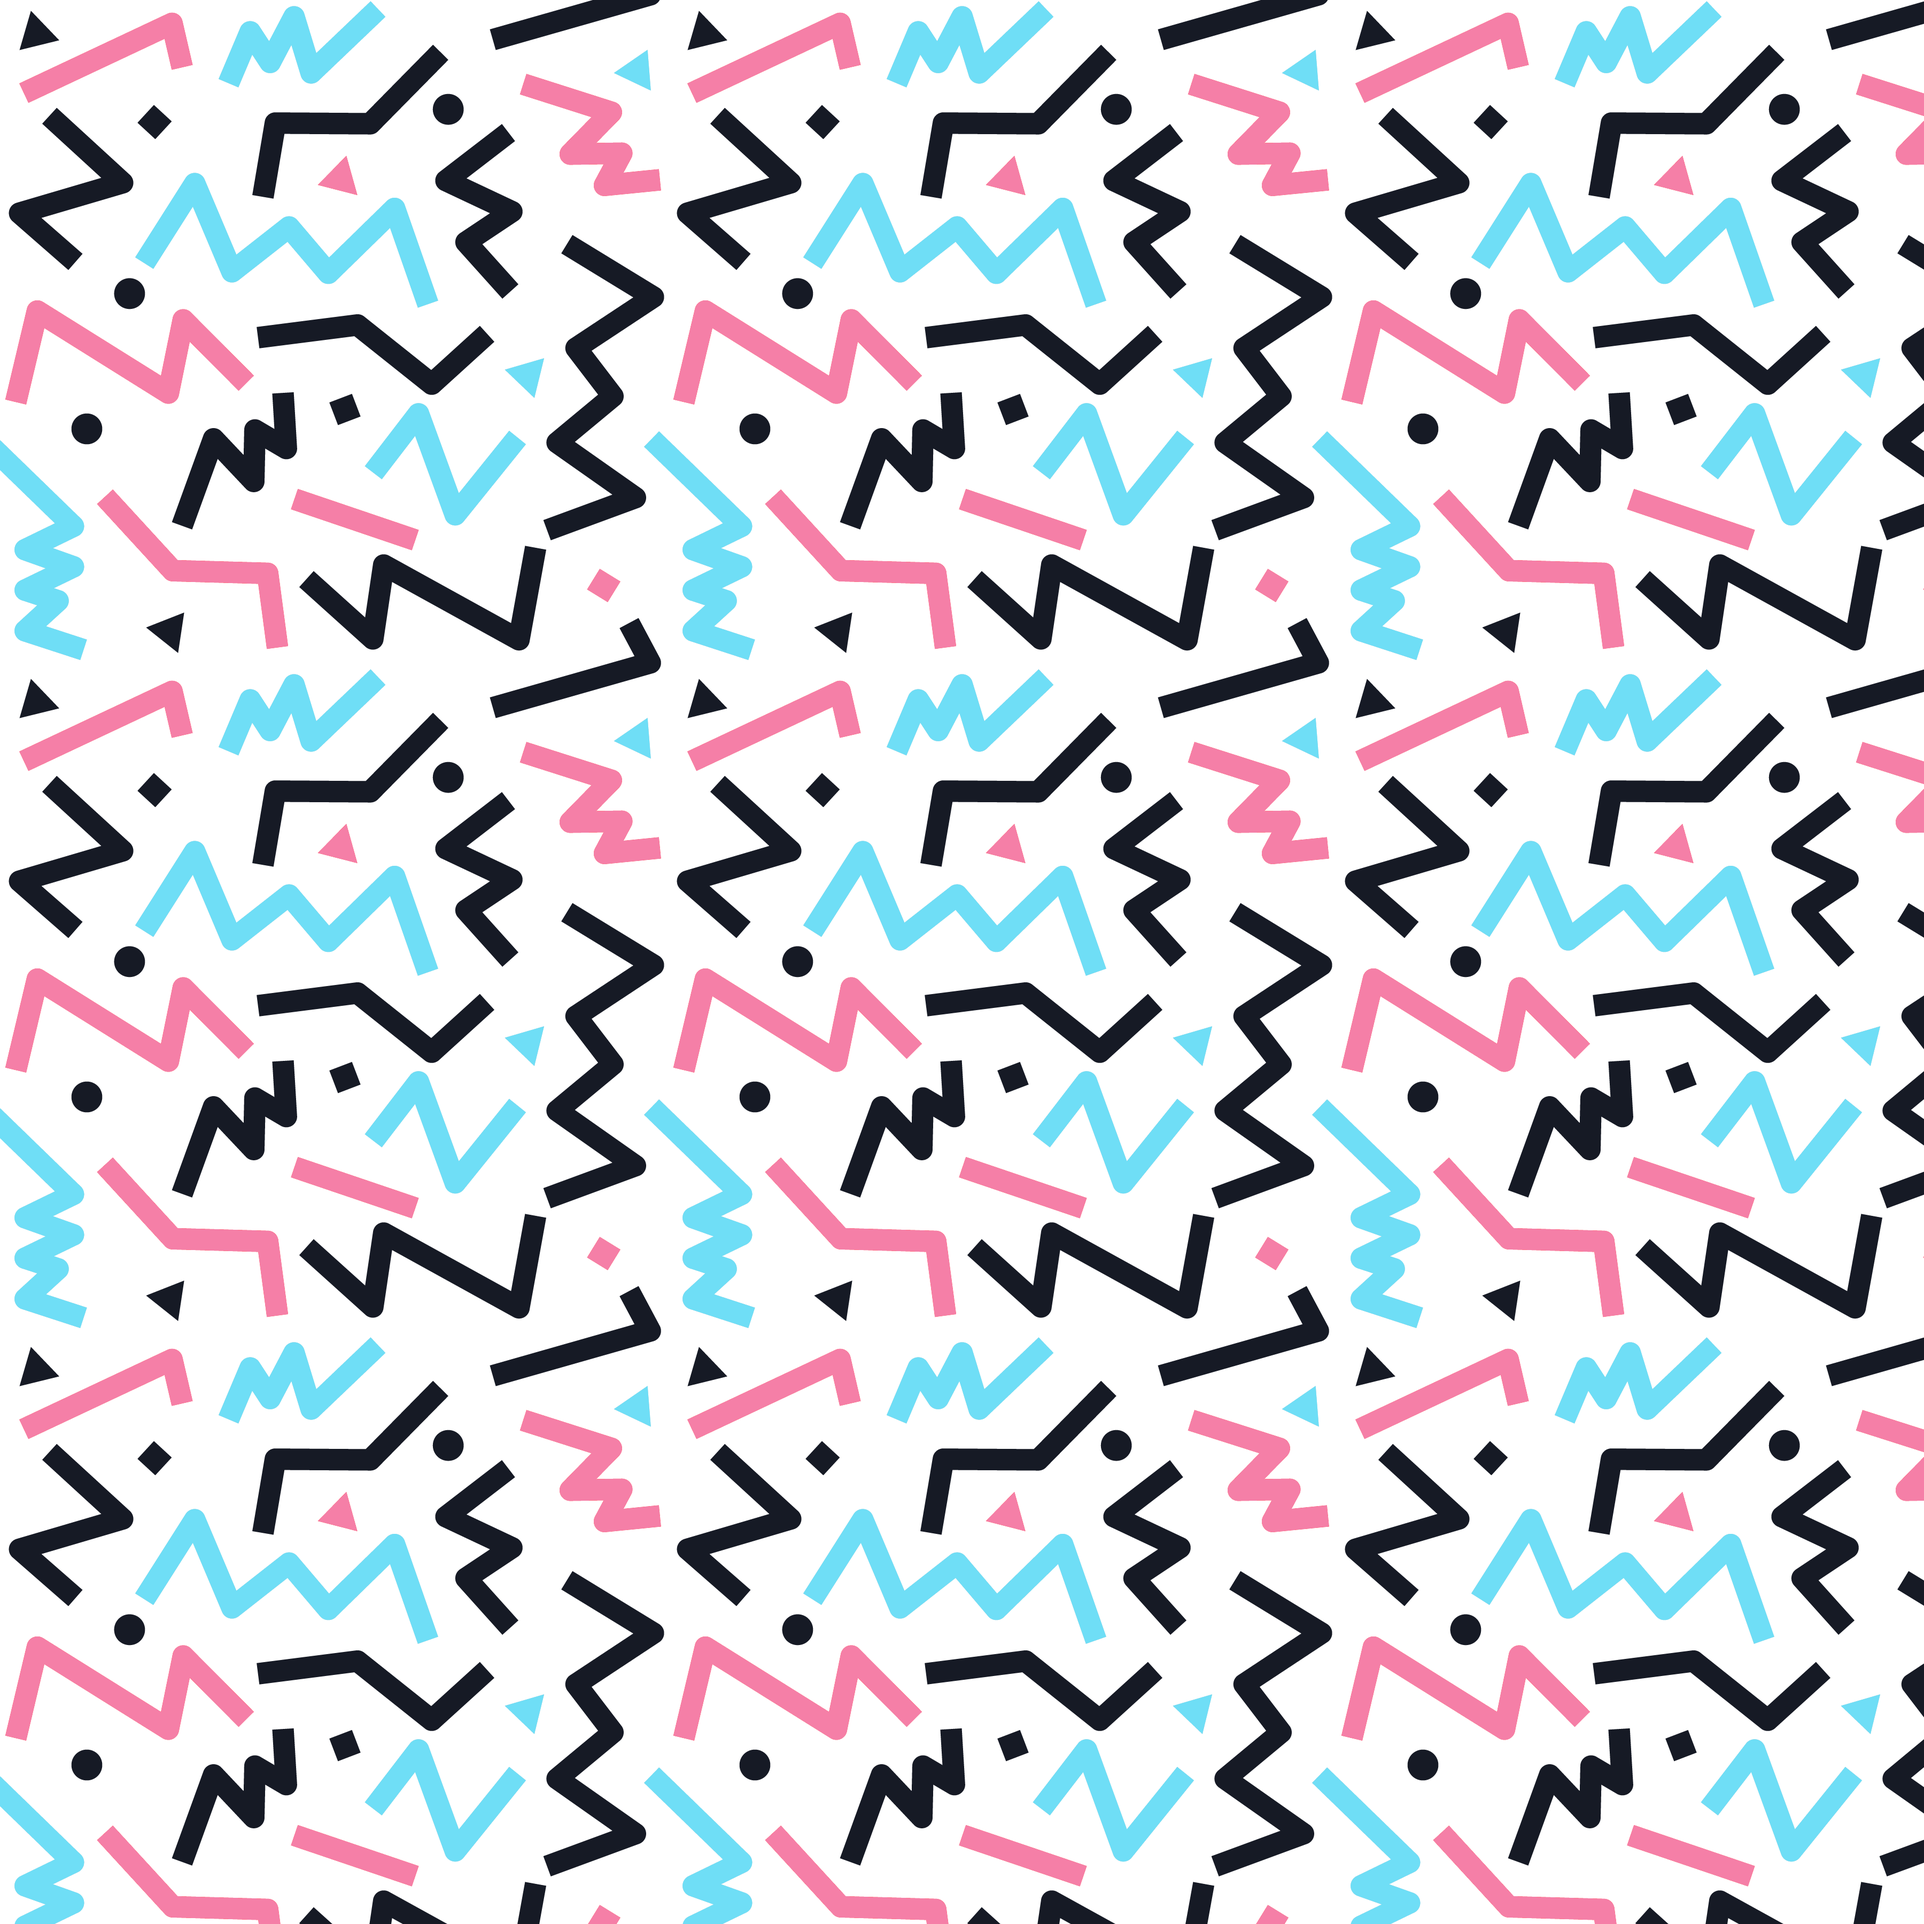
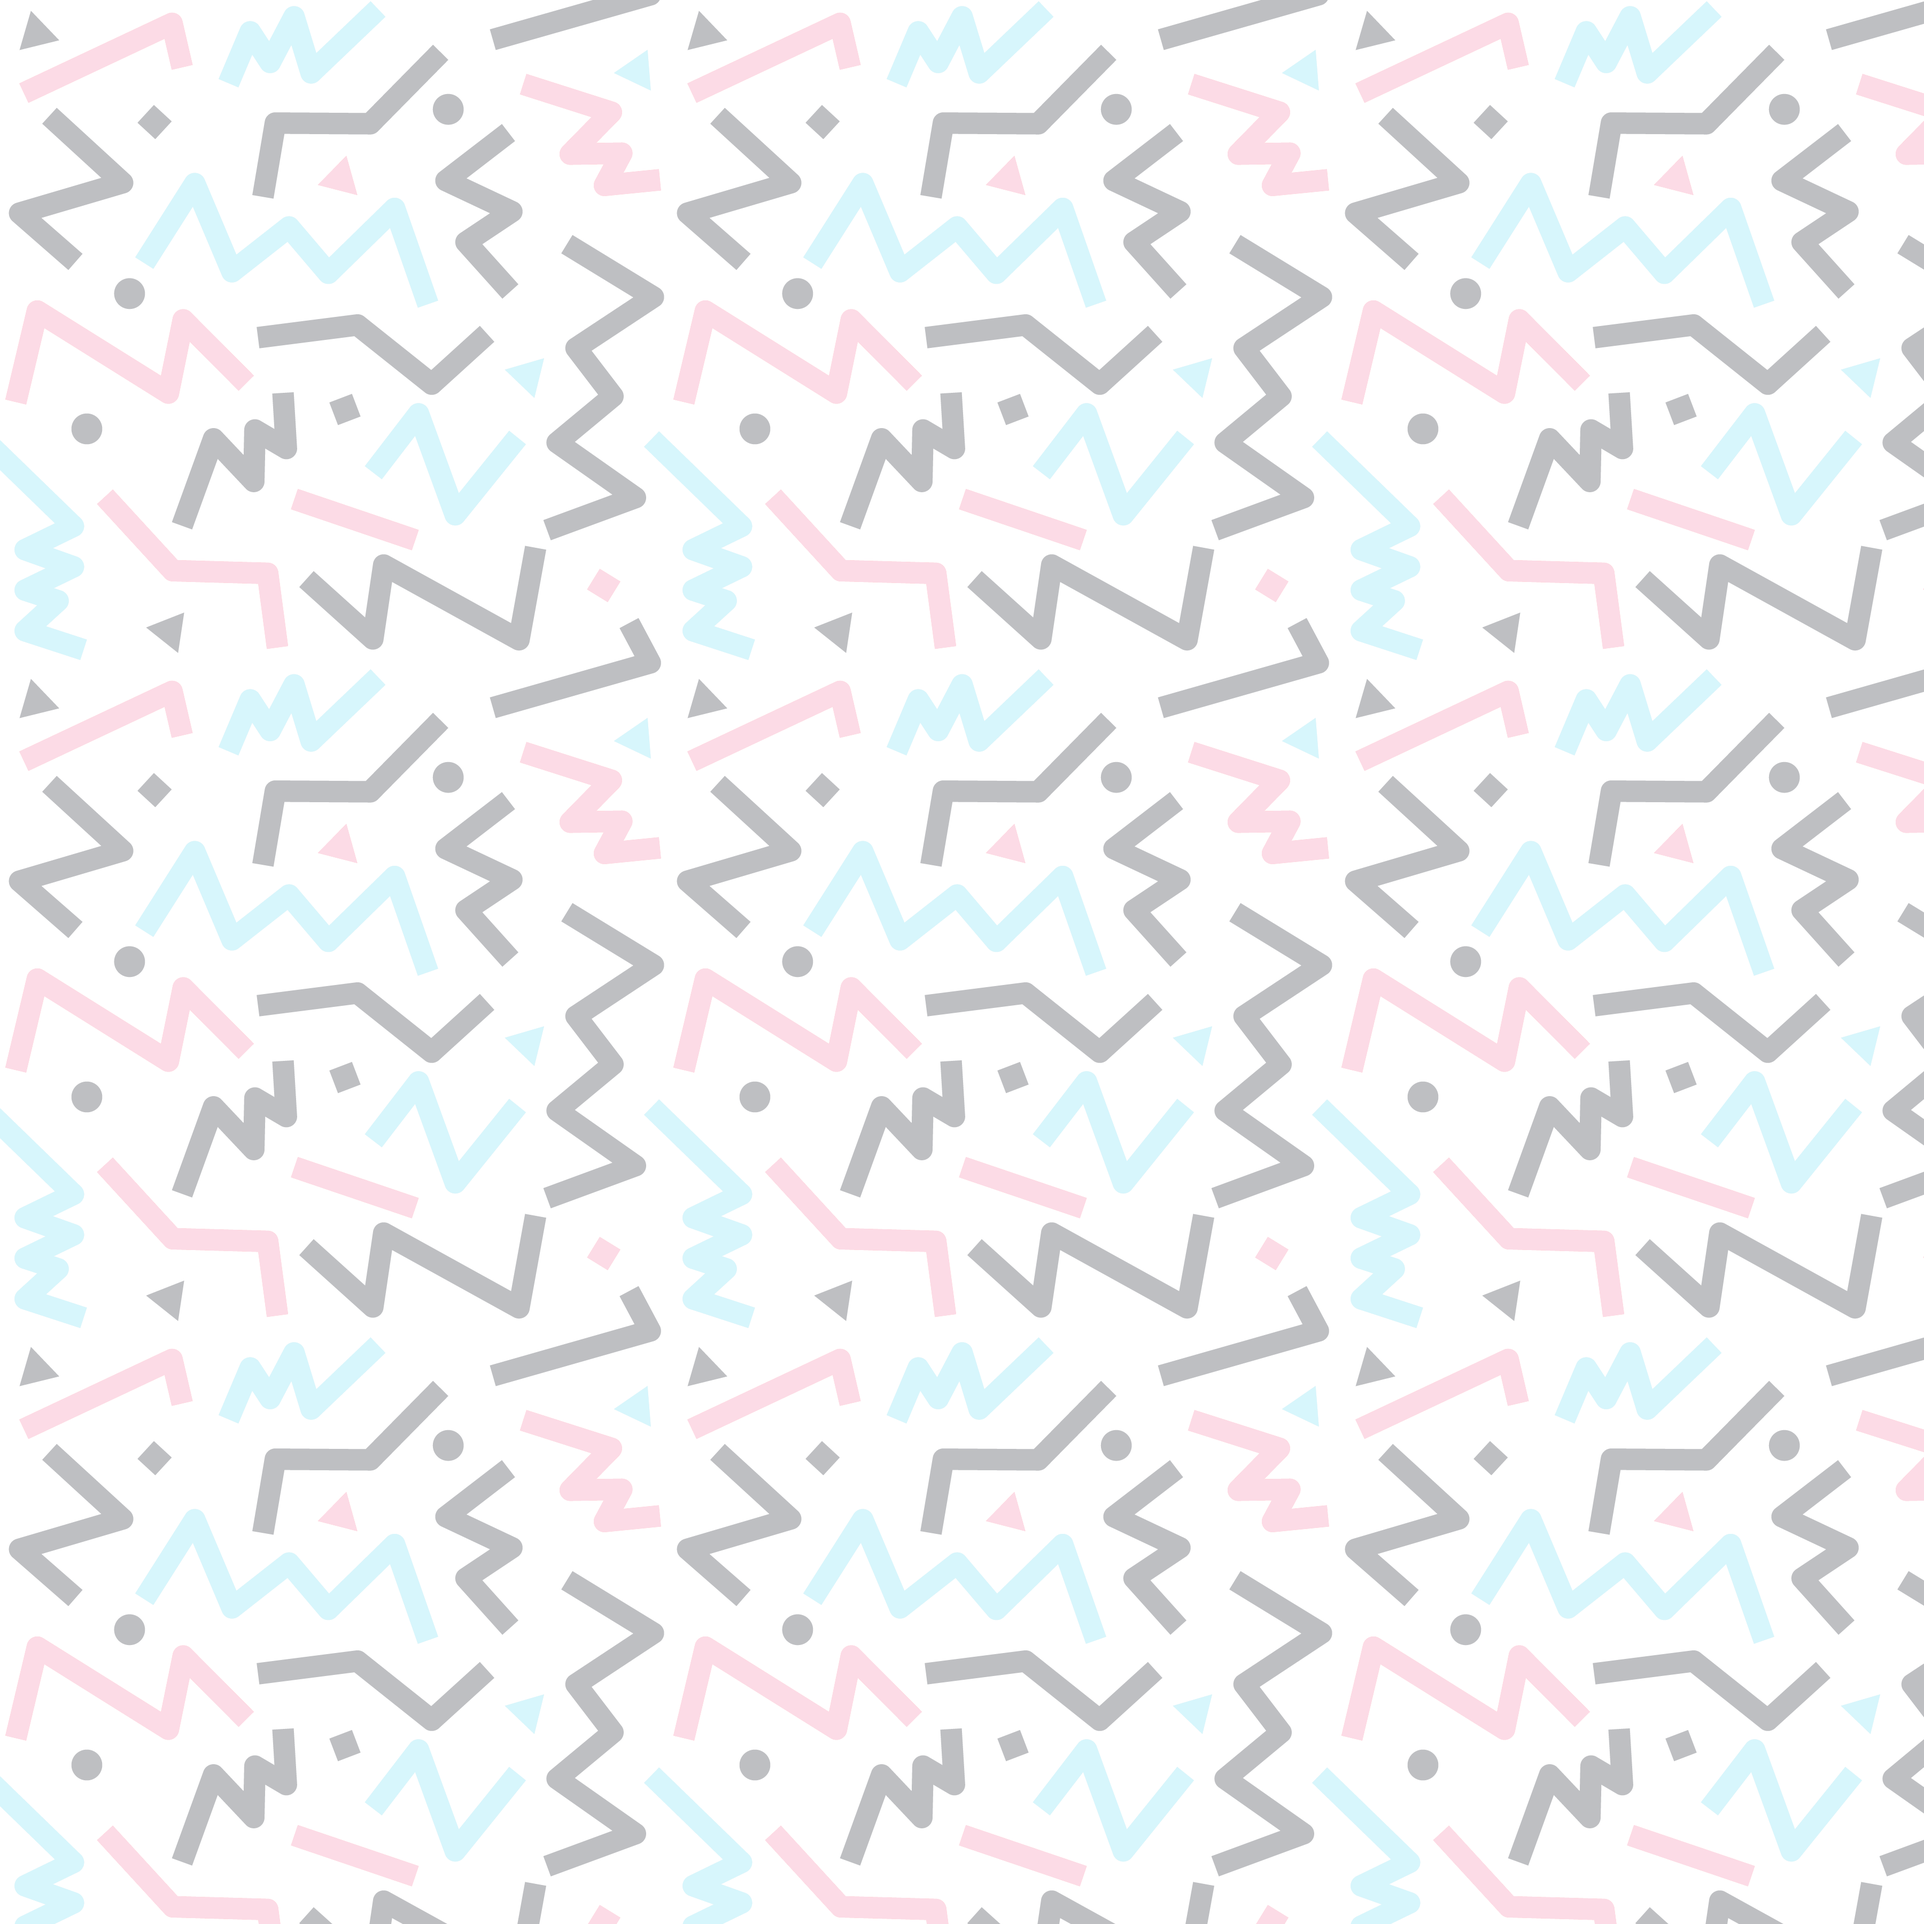
added more css to homepage and nav

Changed region(s): [[0.0, 0.0, 1.0, 1.0]]

diff --git a/src/components/Home.js b/src/components/Home.js
@@ -1,5 +1,5 @@
 import React from "react";
-import sarah from "../components/sarah.png";
+import SarahOscar from "../components/SarahOscar.png";
 import '../components/Home.css';
 
 const Home = () => {
@@ -9,7 +9,7 @@ const Home = () => {
       <div className="left">
         <div className="welcome-text">
           <h1>Hi! I'm Sarah,</h1>
-          <p>and this is Oscar, but he doesn't code...yet!</p>
+          <p>and this is Oscar, but he doesn't code...<strong>yet!</strong></p>
         </div>
 
         <div className="button">
@@ -19,7 +19,7 @@ const Home = () => {
 
       <div className="right">
         <div className="image">
-          <img src={sarah} alt="Sarah and Oscar" width="500" height="500" />
+          <img src={SarahOscar} alt="Sarah and Oscar" width="500" height="500" />
         </div> 
       </div>           
     </div>

diff --git a/src/components/NavBar.css b/src/components/NavBar.css
@@ -1,8 +1,36 @@
 .NavBar {
-    background-color: black;
+    
+    position: fixed; 
+    width: 100%;
+    overflow: hidden;
     
 }
+    
+/* }
 li {
     list-style-type: none;
+/* } */ 
+
+ul {
+    list-style: none;
+    display: flex;
+    justify-content: right;
+}
+ul li a{
+    text-decoration: none;
+    color: rgb(255, 0, 149);
+    padding: 10px 20px;
+    font-weight: bold;
+    
+}
+
+ul li a:hover{
+    background-color:rgb(255, 0, 149);
+    color: #fff;
+}
+
+.active{
+    background-color: rgb(255, 0, 149);
+    color: #fff;
 }
 

diff --git a/src/index.css b/src/index.css
@@ -1,10 +1,9 @@
 body {
   margin: 0;
-  padding: 0;
+  padding-top: 25px; 
   font-family: 'Gill Sans', 'Gill Sans MT', Calibri, 'Trebuchet MS', sans-serif;
-  background-color: rgb(233, 235, 234);
-  /* background-image: url("/80s_pattern.png");
-  background-repeat: repeat-y; */
+  background-image: url("/80s_pattern.png");
+  background-repeat: repeat-y; 
   text-align: center;
 }
 

diff --git a/src/components/Projects.js b/src/components/Projects.js
@@ -1,8 +1,10 @@
 import React from 'react';
+import '../components/Projects.css';
 
 
-const Projects = () => (
-  <div>
+const Projects = () => {
+  return (
+  <div className="Projects">
       <h4>Projects</h4>
       <ul>
         <li>Project One</li>
@@ -11,6 +13,7 @@ const Projects = () => (
       </ul>
     </div>
   );
+};
 
 
 export default Projects;

diff --git a/src/components/About.js b/src/components/About.js
@@ -1,10 +1,13 @@
 import React from "react";
+import '../components/About.css';
 
-const About = () => (
-  <div>
-    <h4>About Me</h4>
-    <p>Some information about me.</p>
-  </div>
-);
+const About = () => {
+  return (
+    <div className="About">
+      <h4>About Me</h4>
+      <p>blah blah blah</p>
+    </div>
+  );
+};
 
 export default About;

diff --git a/src/components/Home.css b/src/components/Home.css
@@ -1,4 +1,5 @@
 .welcome-container {
+    padding-top: 65px; 
     display: flex;
     flex-direction: row;
     width: 100%;

diff --git a/src/components/Projects.css b/src/components/Projects.css
@@ -1,0 +1,4 @@
+.Projects {
+    padding-top: 65px; 
+
+}

diff --git a/src/components/About.css b/src/components/About.css
@@ -1,0 +1,4 @@
+.About {
+    padding-top: 65px; 
+
+}
